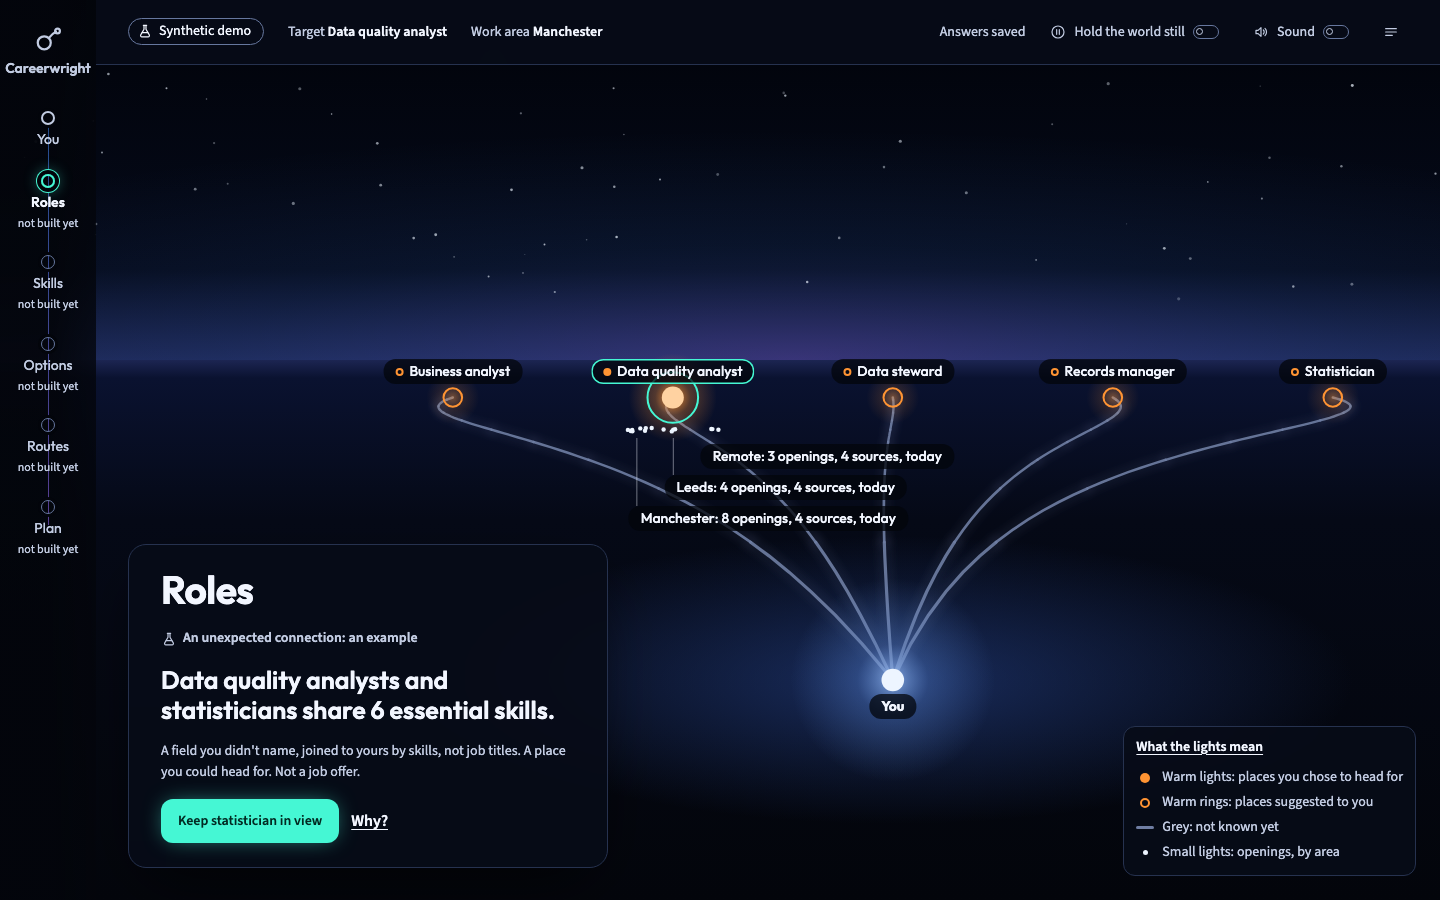
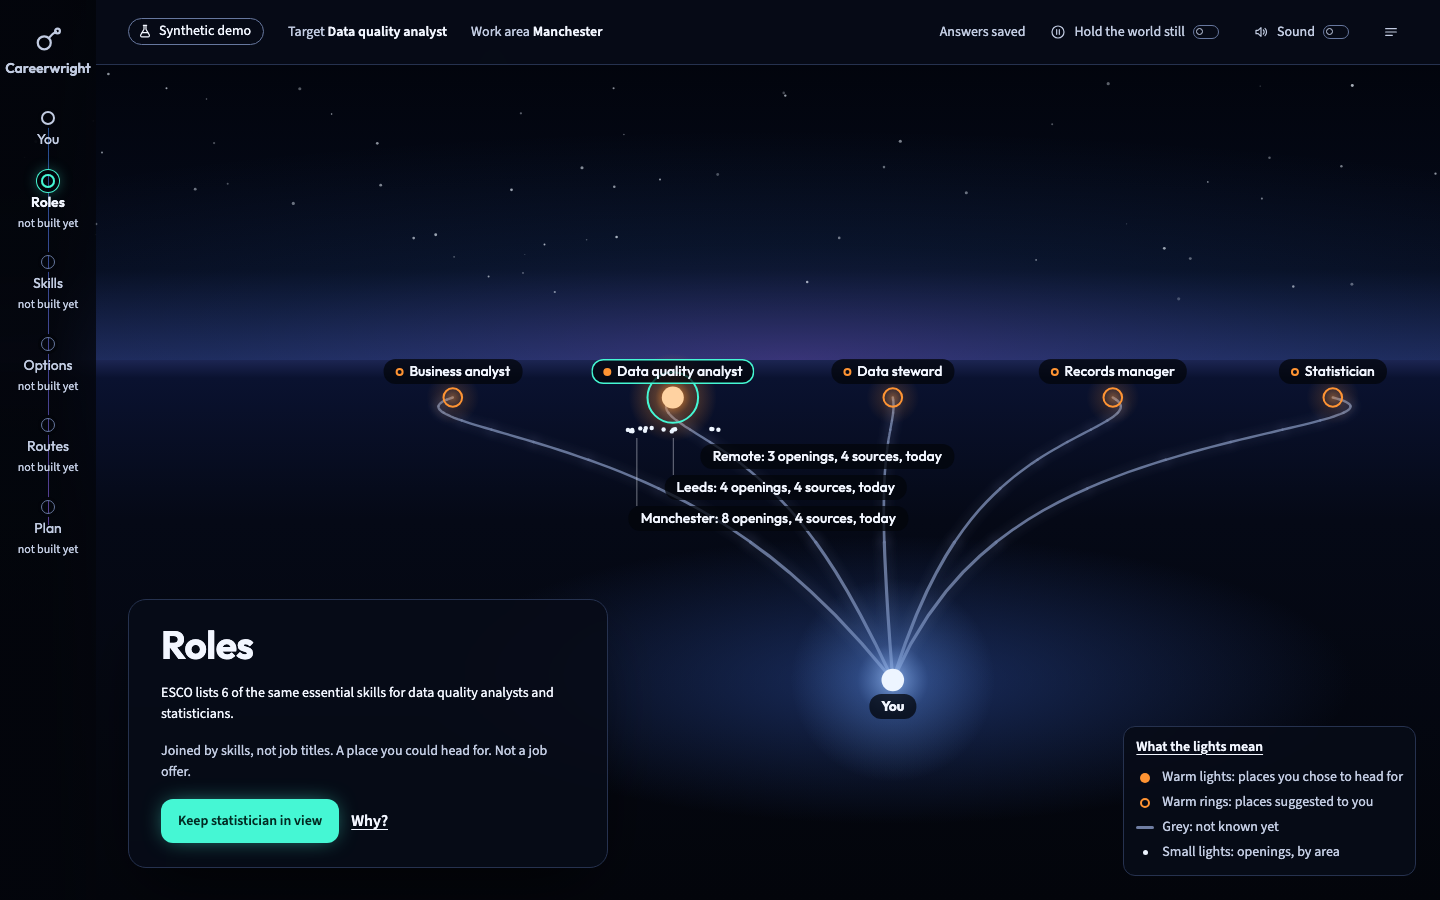
support-policy-10 and the design references' ESCO words (Task 6d slice C)
- support-policy-10: the review step's typed answers and a title's seniority and industry
  are screened too; REVIEW_STATUS names both as not yet reviewed as built. The panel's words
  and the screen's lists and windows are unchanged.
- Design references: the world's caption for a skill ESCO lists is "ESCO lists it, not
  confirmed yet" (the key says "for this kind of work"), the You console's skills line and
  the Skills place say ESCO lists them, and the Roles place states shared skills as a plain
  line with no "unexpected connection" kicker. Captures re-taken: 46/46 pass.

Changed region(s): [[0.0938, 0.6222, 0.4062, 0.8711]]

diff --git a/docs/design/compositions/world.js b/docs/design/compositions/world.js
@@ -713,7 +713,7 @@
       return atConsole(`
           <p class="question">What do you do now, or what did you do last?</p>
           <p class="answer"${failed ? ' data-failed="true"' : ""}>Synthetic: I check customer records for a housing association.${failed ? `<br><span class="status" data-tone="error">${glyph("error")}Not processed</span>` : ""}</p>
-          ${failed ? `<div class="alert" data-tone="error" role="alert">${glyph("error")}<div><p><strong>Careerwright's reply didn't arrive</strong></p><p class="small muted">Your message is kept. Nothing about you changed.</p></div></div>` : `<p>Records officers usually need these skills. Pick any you've used, and it lights up.</p>`}
+          ${failed ? `<div class="alert" data-tone="error" role="alert">${glyph("error")}<div><p><strong>Careerwright's reply didn't arrive</strong></p><p class="small muted">Your message is kept. Nothing about you changed.</p></div></div>` : `<p>ESCO lists these skills for records officer work. Pick any you've used, and it lights up.</p>`}
           <p class="field" aria-hidden="true">Tell me more…</p>
           <div class="row"><button type="button" class="btn btn-primary">${failed ? "Try again" : "Send"}</button></div>`);
     }
@@ -902,7 +902,7 @@
         li.dataset.for = l.id;
         if (l.selected) li.dataset.selected = "true";
         li.innerHTML = `<span class="name">${esc(l.name)}</span>`;
-        if (l.state === "usual") li.innerHTML += `<span class="caption">ESCO lists it for this kind of work, not confirmed yet</span>`;
+        if (l.state === "usual") li.innerHTML += `<span class="caption">ESCO lists it, not confirmed yet</span>`;
         if (l.state === "said") li.innerHTML += `<span class="caption">you said so</span>`;
         if (l.state === "shadow" && !l.name.includes("no bridge")) li.innerHTML += `<span class="caption">not known yet</span>`;
         host.append(li);

diff --git a/backend/tests/integration/test_interview_choices.py b/backend/tests/integration/test_interview_choices.py
@@ -134,11 +134,13 @@ def test_a_message_with_a_risk_stem_is_sent_with_the_support_panel_and_none_of_i
 
     assert flagged.status_code == 202, flagged.text  # sent: no hold, no extra step
     panel = flagged.json()["support_note"]
-    # support-policy-9: the first question's title field (Task 6d slice B fix round 1, kept by
-    # the person's choice in fix round 2) and What we know's direct entries (the product
-    # owner's decision, 2026-10-31) are screened too. Accepted at session 1; the three
-    # phrasings and the screens added after it are not yet reviewed.
-    assert panel["policy_version"] == safety.POLICY_VERSION == "support-policy-9"
+    # support-policy-10: the first question's title field (Task 6d slice B fix round 1, kept by
+    # the person's choice in fix round 2), What we know's direct entries (the product owner's
+    # decision, 2026-10-31), and since slice C the answers typed in the conversation's review
+    # step and a title's seniority and industry ("every place a person types") are screened
+    # too. Accepted at session 1; the three phrasings and the screens added after it are not
+    # yet reviewed.
+    assert panel["policy_version"] == safety.POLICY_VERSION == "support-policy-10"
     assert panel["review_status"] == safety.REVIEW_STATUS
     assert panel["review_status"].startswith("accepted for L0 at session 1")
     assert "not yet reviewed as built" in panel["review_status"]

diff --git a/backend/src/careerwright/profile/safety.py b/backend/src/careerwright/profile/safety.py
@@ -47,12 +47,16 @@ import unicodedata
 from collections.abc import Callable, Iterable
 from dataclasses import dataclass
 
-POLICY_VERSION = "support-policy-9"
+# support-policy-10 (Task 6d slice C, the product owner's "every place a person types"): the
+# answers typed in a conversation's review step, and a title's seniority and industry, are
+# screened as What we know's direct entries are, with the same lines.
+POLICY_VERSION = "support-policy-10"
 CHECKED_ON = "2026-10-28"
 REVIEW_STATUS = (
     "accepted for L0 at session 1 (human gate H-12); the three phrasings added on 2026-10-28, "
-    "and the screens of the first question and of What we know with their lines, added on "
-    "2026-10-31, are not yet reviewed as built"
+    "the screens of the first question and of What we know with their lines, added on "
+    "2026-10-31, and the screens of the conversation's review step and of a title's "
+    "seniority and industry, added on 2026-11-01, are not yet reviewed as built"
 )
 
 # Normalisation: the listed apostrophe variants to `'`, the hyphens U+2010 and U+2011 to `-`,
